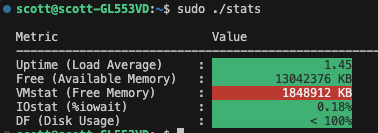
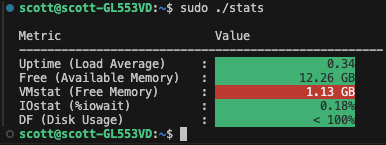
cleanup

diff --git a/stats.c b/stats.c
@@ -21,6 +21,10 @@ void run_command(const char* command, char* output) {
     pclose(fp);
 }
 
+double kb_to_gb(long kb) {
+    return kb / (1024.0 * 1024.0);
+}
+
 void print_colored(const char* label, const char* value, int exceeded) {
     printf("%-*s : %s%*s%s\n", 
            LABEL_WIDTH, label, 
@@ -48,14 +52,16 @@ int main() {
     // Free
     run_command("free | awk '/^Mem:/ {print $7}'", output);
     sscanf(output, "%ld", &available_mem);
-    snprintf(output, MAX_OUTPUT, "%ld KB", available_mem);
+    snprintf(output, MAX_OUTPUT, "%.2f GB", kb_to_gb(available_mem));
     print_colored("Free (Available Memory)", output, available_mem == 0);
 
     // VMstat
     run_command("vmstat | tail -n 1 | awk '{print $4}'", output);
     sscanf(output, "%ld", &free_mem);
-    snprintf(output, MAX_OUTPUT, "%ld KB", free_mem);
-    print_colored("VMstat (Free Memory)", output, free_mem < total_mem);
+    long mem_threshold = total_mem * 0.1; // 10% of total memory
+    snprintf(output, MAX_OUTPUT, "%.2f GB", kb_to_gb(free_mem));
+    print_colored("VMstat (Free Memory)", output, free_mem < mem_threshold);
+
 
     // IOstat
     run_command("iostat | grep -A 1 avg-cpu | tail -n 1 | awk '{print $4}'", output);
